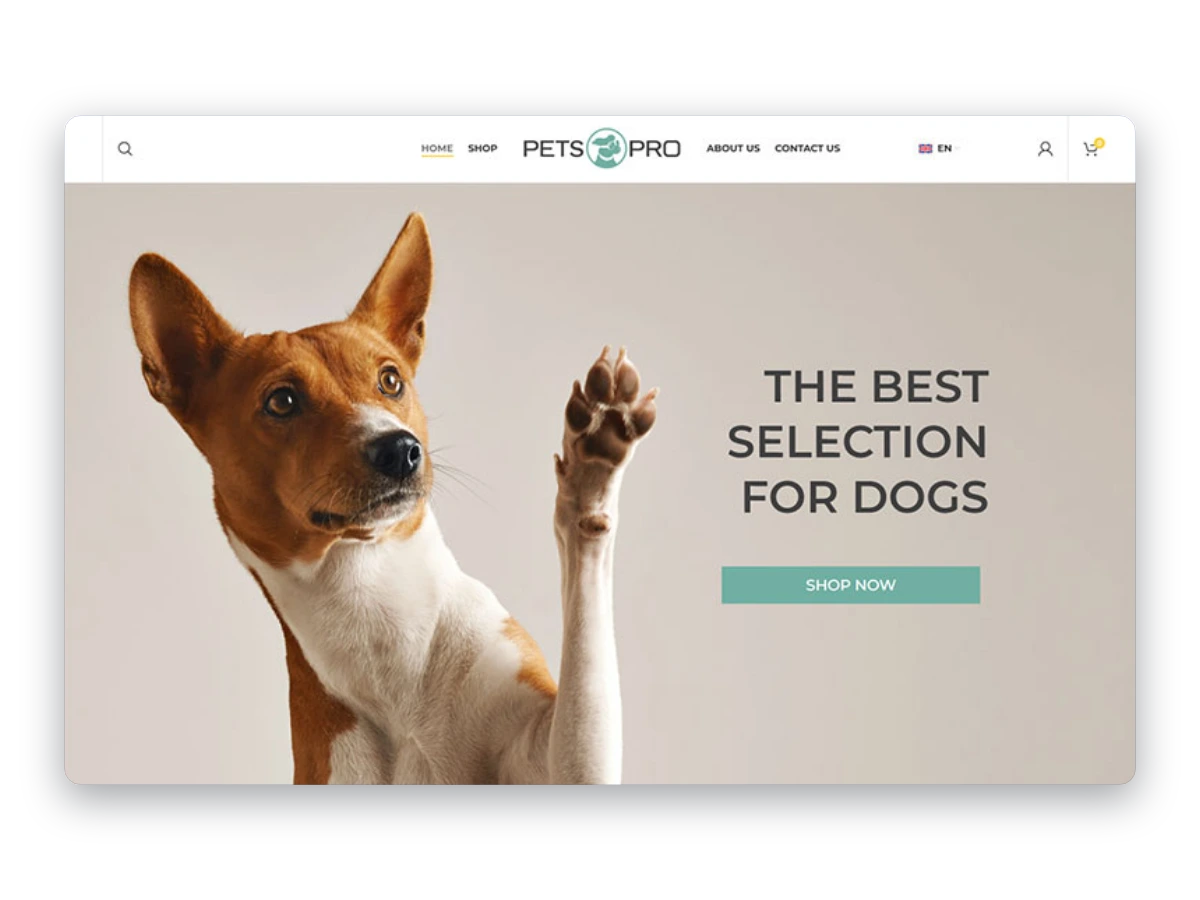
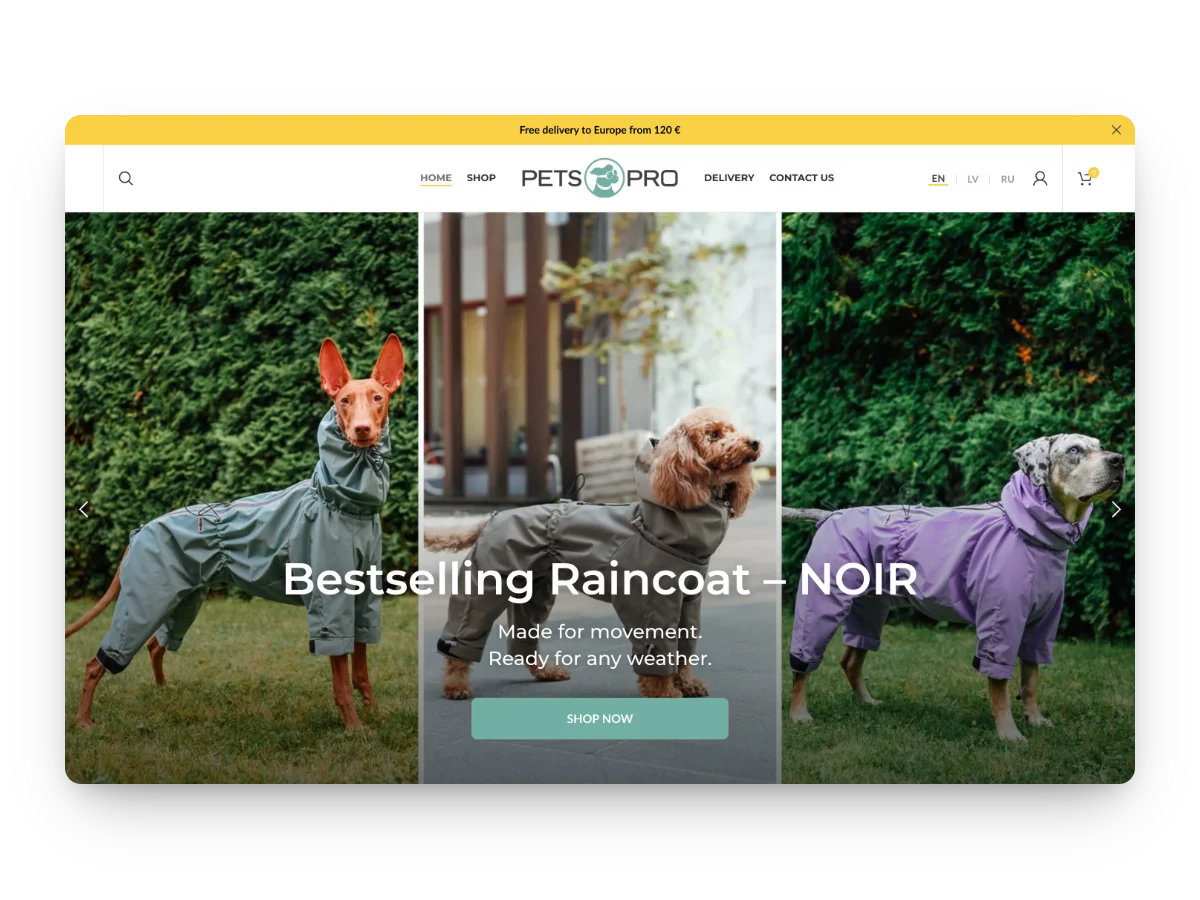
feat(portfolio): refresh Pets Pro, drop Aerial Platform and Gift Roulette
Pets Pro gets a new cover, three current screenshots and copy in both
languages for what the shop has become (370+ products in EN/LV/RU, size-range
links, rule-based upsells, moderated reviews, parcel-locker labels from the
order); it is tagged as maintenance work and shown on the Latvian maintenance
page. Aerial Platform and Gift Roulette are removed; their old URLs redirect
to the portfolio.

diff --git a/src/data/projects.lv.ts b/src/data/projects.lv.ts
@@ -309,18 +309,22 @@ export const projectsLv: Record<string, ProjectCopy> = {
     result: "Vizuāli saistošs katalogs, kas izceļ preces, nenovēršot uzmanību no satura.",
   },
   "pets-pro": {
-    seoTitle: "Pets Pro - daudzvalodu dzīvnieku preču veikals",
-    description: "Mājdzīvnieku preču veikals ar daudzvalodu katalogu - apģērbs, guļvietas, rotaļlietas un kopšanas līdzekļi, ar izceltām kategorijām un vēlmju sarakstu veikala lapā.",
-    challenge: "Mājdzīvnieku preču tirgotājam, kas pārdod visā Baltijā, vajadzēja veikalu, kas strādā kā pircējiem ierastās lielās tirdzniecības platformas: ātra pārlūkošana pa kategorijām, izlase, lojalitātes punkti un skaidri piegādes noteikumi. Turklāt bez lielas platformas budžeta un ar nelielu komandu, kas veikalu uztur vairākās valodās.",
+    seoTitle: "Pets Pro - daudzvalodu WooCommerce zooveikals",
+    description: "Rīgas zooveikals suņiem un kaķiem, kas pārdod visā Eiropā angļu, latviešu un krievu valodā - 370+ preces, izmēru tabulas un saites uz citiem izmēriem, papildpreču ieteikumi, moderētas atsauksmes ar suņa šķirni un izmēru un pakomātu uzlīmes, kas tiek izdrukātas tieši no pasūtījuma.",
+    metaDescription: "Pets Pro: WooCommerce zooveikals LV, EN un RU - 370+ preces, izmēru tabulas, papildpreču ieteikumi, moderētas atsauksmes, pakomātu uzlīmes no pasūtījuma.",
+    challenge: "Pets Pro sākās kā kārtīgs WooCommerce veikals. Kad katalogs pārsniedza 370 preces - lietusmēteļi un apģērbs daudzos izmēros, guļvietas, krūšu siksnas, kopšanas un higiēnas preces -, veikalam vajadzēja pārdot trīs valodās visā Eiropā, palīdzēt saimniekiem izvēlēties pareizo izmēru bez rakstīšanas veikalam, palielināt vidējo pirkumu un ļaut nelielai komandai katru dienu sapakot un izsūtīt sūtījumus. Turklāt uz esošās WordPress bāzes un nepadarot vietni lēnāku.",
     solution: [
-      "Veikala sākumlapa veidota ap izceltajām kategorijām (apģērbs un apavi, guļvietas, suņu rotaļlietas, kopšanas līdzekļi) un sezonālo kampaņu baneriem",
-      "Vēlmju saraksts un lojalitātes programma: pircēji reģistrējas, ar katru pirkumu krāj punktus un izmanto tos nākamajā reizē",
-      "Bezmaksas piegādes sliekšņi katrai valstij redzami katrā lapā, lai pircēji no citām valstīm noteikumus zinātu jau iepriekš",
-      "Akciju josla un kampaņu bloki (piemēram, «−20% barībai»), ko komanda maina, neaiztiekot izkārtojumu",
-      "Daudzvalodu WooCommerce katalogs ar lapām, kas rediģējamas Elementor",
-      "Mailchimp jaunumu vēstules pierakstīšanās forma un saites uz Instagram, TikTok un Facebook",
+      "Viss veikals angļu, latviešu un krievu valodā - preču nosaukumi, apraksti, kategorijas, atribūti, e-pasti un formas - ar SitesPro Translate, mūsu pašu daudzvalodu spraudni, kas aizstāja TranslatePress",
+      "Preču apraksti pārrakstīti pēc vienota šablona (ievads, īpašības, lietošana, specifikācija), un izmēru tabulas no attēliem pārvērstas tulkotos uznirstošajos logos",
+      "Saites «Meklējat citu izmēru?» starp viena modeļa izmēru grupām, kas tiek veidotas automātiski no preču nosaukumiem un atlikumiem",
+      "Papildpreču ieteikumi zem pogas «Pievienot grozam» un grozā katrai precei pēc noteikumiem - pavada un krūšu siksna blakus lietusmētelim, rezerves maisiņi blakus turētājam",
+      "Apakškategoriju pogas virs preču saraksta, filtri, kas saglabājas, pārslēdzot valodu, un krāsu filtrs tikai tur, kur krāsas ir",
+      "Atsauksmes tikai reģistrētiem pircējiem, ar obligātu moderāciju un ar suņa vārdu, šķirni un nopirkto izmēru blakus katrai atsauksmei",
+      "Piegāde uz Omniva, Expresspasts un Smartposti pakomātiem ar uzlīmēm, kas tiek izdrukātas no pasūtījuma, un loma «uzlīmju printeris», ar kuru pakotāji drukā uzlīmes, bet nevar mainīt pasūtījumus",
+      "Bezmaksas piegādes slieksnis redzams pie katras preces, un kupona uznirstošais logs pievieno abonentus Brevo ar viņu valodu, lai kampaņas aizietu pareizajā valodā",
+      "Ātruma uzlabojumi: lapu kešatmiņa bez izsekošanas sīkdatnēm, pašu mitināti fonti, vieglāks sākumlapas slaideris un Meta Conversions API tikai pirkumiem - šī izmaiņa vien katrai nekešotai lapai ietaupa 0,1-0,65 s",
     ],
-    result: "Visas Baltijas mājdzīvnieku preču veikals, ko klients pārvalda pats: kampaņas, cenas un piegādes noteikumi tiek mainīti administrēšanas panelī, bet pircēji saņem izlasi, punktus un skaidrus piegādes noteikumus, ko viņi sagaida no daudz lielākiem veikaliem.",
+    result: "Veikals, kas izaudzis par strādājošu tirdzniecības sistēmu: saimnieki paši atrod savu izmēru un piemērotus aksesuārus, katra lapa dabiski skan trijās valodās, atsauksmēs ir reāls konteksts, un komanda dienas sūtījumu uzlīmes drukā tieši no pasūtījumiem. Mēs turpinām veikalu attīstīt un uzturēt, biznesam augot.",
   },
   "on-air-emotions": {
     seoTitle: "On Air Emotions - pasākumu aģentūras mājaslapa",
@@ -402,20 +406,6 @@ export const projectsLv: Record<string, ProjectCopy> = {
     ],
     result: "Kalkulators, kam braucēji uzticas, jo tas parāda savu aprēķinu gaitu: pabīdi vienu slīdni - un nobraukums un brauciena laiks atjaunojas uzreiz, bet pieņēmumi ir izrakstīti, nevis paslēpti. Turklāt tas atrodas EUC.ONE lietotnē, kur arī tiek pieņemts lēmums.",
   },
-  "gift-roulette": {
-    seoTitle: "Gift Roulette - Slepenā Santa lietotne",
-    description: "Slepenā Santa organizētājs - izveidojiet pasākumu, pārvaldiet dalībniekus, automātiski izlozējiet vārdus un nosūtiet administratora saites pa e-pastu. Nekas nav jāinstalē, un dalībai konts nav vajadzīgs.",
-    metaDescription: "Slepenā Santa organizētājs: izveidojiet pasākumu, pievienojiet dalībniekus un automātiski izlozējiet vārdus - bez instalēšanas un bez konta dalībniekiem.",
-    challenge: "Vienkāršot Slepenā Santa pasākumu organizēšanu ar intuitīvu platformu, kurā bez liekas sarežģītības var izveidot pasākumu, pārvaldīt dalībniekus un saskaņot dāvanu apmaiņu.",
-    solution: [
-      "Vienkārša pasākuma izveide ar nosaukumu, aprakstu un datumu",
-      "Ērta dalībnieku pārvaldība ar minimālām prasībām",
-      "Administratora saišu nosūtīšana pa e-pastu - pēc izvēles",
-      "Vienkāršota saskarne ātrai pasākuma sagatavošanai",
-      "Pārskatāma pasākuma informācija un dalībnieku uzskaite",
-    ],
-    result: "Ērta lietotne, kas Slepenā Santa pasākuma organizēšanu padara pavisam vienkāršu, lai dalībnieki varētu domāt par dāvanu apmaiņas prieku, nevis loģistiku.",
-  },
   ekobaltika: {
     seoTitle: "EkoBaltika - pakalpojumi un instrumentu e-veikals",
     description: "Metāla virsmu lāzertīrīšana un koka un polimēru CNC frēzēšana, kā arī instrumentu e-veikals - pakalpojumi un preces vienā vietnē klientiem visā Latvijā.",
@@ -490,21 +480,6 @@ export const projectsLv: Record<string, ProjectCopy> = {
       "Uzņēmuma paša skaitļi kā pierādījums - 5000+ projektu un 45 000+ uzstādītu logu",
     ],
     result: "Profesionāla pakalpojumu vietne, kas pārliecinoši parāda kompetenci un uzticamību, piesaista kvalificētus potenciālos klientus ar bezmaksas cenas piedāvājuma pieprasījumiem un vairo pārliecību par uzstādīšanas procesu.",
-  },
-  "aerial-platform": {
-    seoTitle: "Aerial Platform - dronu pakalpojumu platforma",
-    description: "Vadošā tirdzniecības platforma, kas savieno profesionālus dronu operatorus ar klientiem, kuriem vajadzīga izcila aerofotografēšana un aerovideofilmēšana.",
-    challenge: "Izveidot visaptverošu tirdzniecības platformu, kas ērti savieno dronu operatorus ar klientiem, atvieglo rezervācijas, maksājumus un pakalpojumu sniegšanu un nodrošina kvalitāti un uzticību abām darījuma pusēm.",
-    solution: [
-      "Profesionāli operatoru profili ar portfolio un vērtējumiem",
-      "Klientiem ērta rezervēšanas sistēma ar pakalpojumu filtrēšanu",
-      "Droša maksājumu apstrāde un darījumu pārvaldība",
-      "Pakalpojumu kategorijas dažādām aerofotografēšanas vajadzībām",
-      "Atsauksmju un vērtējumu sistēma kvalitātes nodrošināšanai",
-      "Pieejamība un grafiks reāllaikā",
-      "Mobilajām ierīcēm pielāgots dizains rezervācijām ceļā",
-    ],
-    result: "Moderna tirdzniecības platforma, kas vienkāršo saikni starp profesionāliem dronu operatoriem un klientiem un padara izcilus aerofotografēšanas un aerovideofilmēšanas pakalpojumus viegli pieejamus. (Joprojām izstrādes stadijā.)",
   },
   "senso-projects": {
     seoTitle: "Senso Projects - interjera dizaina vietne",

diff --git a/src/data/projects.ts b/src/data/projects.ts
@@ -820,35 +820,44 @@ export const projects: Project[] = [
   {
     slug: 'pets-pro',
     title: 'Pets Pro',
-    seoTitle: 'Pets Pro — Multilingual Pet Supplies Store',
+    seoTitle: 'Pets Pro — Multilingual WooCommerce Pet Store',
+    updated: '2026-10-23',
     category: 'Commerce',
-    tech: ['WordPress', 'WooCommerce', 'Multilingual', 'Mailchimp'],
-    services: ['web', 'ecommerce', 'multilingual'],
-    description: 'Pet supplies store with a multilingual catalogue — clothing, beds, toys and care products, with featured categories and a favourites list on the storefront.',
+    tech: ['WordPress', 'WooCommerce', 'WoodMart', 'Multilingual (EN/LV/RU)', 'Brevo', 'Meta Conversions API', 'Cloudflare'],
+    services: ['web', 'ecommerce', 'multilingual', 'maintenance'],
+    description: 'Riga pet store for dogs and cats, selling across Europe in English, Latvian and Russian — 370+ products, size guides and size-range links, rule-based upsells, moderated reviews with the dog’s breed and size, and parcel-locker labels printed straight from the order.',
+    metaDescription: 'Pets Pro: WooCommerce pet store in EN, LV and RU — 370+ products, size guides, rule-based upsells, moderated reviews, parcel-locker labels from the order.',
     challenge: `
-      A pet-supplies retailer selling across the Baltics needed a store that
-      works like the big marketplaces shoppers are used to — fast browsing by
-      category, favourites, loyalty points, clear delivery terms — without a
-      marketplace budget, and with a small team running it in several languages.
+      Pets Pro started as a tidy WooCommerce storefront. As the catalogue grew
+      past 370 products — raincoats and clothing in many sizes, beds, harnesses,
+      care and hygiene — the shop had to sell in three languages across Europe,
+      help owners choose the right size without writing in, raise the average
+      order, and let a small team pack and ship parcels every day. All of it on
+      the existing WordPress stack, without making the site slower.
     `,
     solution: [
-      'Storefront built around featured categories (clothing and shoes, beds, dog toys, care products) and seasonal campaign banners',
-      'Wishlist and a loyalty scheme: shoppers register, earn points with every purchase and spend them next time',
-      'Country-specific free-delivery thresholds shown on every page, so cross-border buyers know the rules up front',
-      'Promotional bar and campaign blocks (a −20% food line, for example) the team changes without touching the layout',
-      'Multilingual WooCommerce catalogue with Elementor-editable pages',
-      'Mailchimp newsletter capture and links to Instagram, TikTok and Facebook',
+      'The whole shop in English, Latvian and Russian — product names, descriptions, categories, attributes, e-mails and forms — on SitesPro Translate, our own multilingual plugin, replacing TranslatePress',
+      'Product texts rewritten to one template (intro, features, how to use, specifications) and size guides transcribed from pictures into translated pop-ups',
+      '"Looking for another size?" links between the size ranges of a model, built automatically from product names and stock',
+      'Rule-based upsells under Add to cart and cross-sells in the cart for every product — a leash and harness next to a raincoat, refills next to a holder',
+      'Subcategory chips above the product grid, filters that survive a language switch and a colour filter only where colours exist',
+      'Reviews for registered customers only, held for moderation, with the dog’s name, breed and the size bought shown next to each review',
+      'Omniva, Expresspasts and Smartposti parcel-locker shipping with labels printed from the order, and a "label printer" role that lets packing staff print labels without being able to change orders',
+      'Free-shipping thresholds shown on every product, and a coupon pop-up that adds subscribers to Brevo with their language, so campaigns go out in the right one',
+      'Speed work: page cache kept free of tracking cookies, self-hosted fonts, a lighter home slider, and the Meta Conversions API limited to purchases — that change alone takes 0.1–0.65 s off every uncached page',
     ],
     result: `
-      A Baltic-wide pet store the client operates alone: campaigns, prices and
-      delivery rules change in the back office, while shoppers get the
-      favourites, points and delivery clarity they expect from much bigger
-      stores.
+      A storefront that grew into a working retail system: owners find their
+      size and the matching accessories on their own, every page reads naturally
+      in three languages, reviews come with real context, and the team prints the
+      day's parcel labels straight from the orders. We keep developing and
+      maintaining the shop as the business grows.
     `,
-    image: '/projects/covers/pets-pro.webp?v=4',
+    image: '/projects/covers/pets-pro.webp?v=5',
     images: [
-      '/projects/screenshots/pets-pro.jpg',
-      '/projects/screenshots/pets-pro-2.jpg',
+      '/projects/screenshots/pets-pro.jpg?v=5',
+      '/projects/screenshots/pets-pro-2.jpg?v=5',
+      '/projects/screenshots/pets-pro-3.jpg?v=5',
     ],
     logo: '/projects/logos/pets-pro.png',
     link: 'https://pets-pro.eu/',
@@ -1068,36 +1077,6 @@ export const projects: Project[] = [
   },
 
   {
-    slug: 'gift-roulette',
-    title: 'Gift Roulette',
-    seoTitle: 'Gift Roulette — Secret Santa Organiser App',
-    category: 'Apps',
-    services: ['web-platforms'],
-    description: 'Secret Santa organiser — create an event, manage participants, draw names automatically and share admin links by email, with nothing to install and no account to join.',
-    metaDescription: 'Secret Santa organiser: create an event, add participants and draw names automatically — nothing to install and no account needed to join.',
-    challenge: `
-      Simplify the organization of Secret Santa events by providing an intuitive
-      platform for creating events, managing participants, and coordinating gift
-      exchanges without complexity.
-    `,
-    solution: [
-      'Simple event creation with name, description, and date',
-      'Easy participant management with minimum requirements',
-      'Optional email notifications for admin links',
-      'Streamlined interface for quick event setup',
-      'Clear event details and participant tracking',
-    ],
-    result: `
-      A user-friendly app that makes organizing Secret Santa events effortless,
-      allowing users to focus on the fun of gift exchanges rather than logistics.
-    `,
-    image: '/projects/covers/gift-roulette.webp?v=4',
-    images: [
-      '/projects/screenshots/gift-roulette.jpg',
-    ],
-  },
-
-  {
     slug: 'ekobaltika',
     title: 'EkoBaltika',
     seoTitle: 'EkoBaltika — Services and Tools Web Shop',
@@ -1300,39 +1279,6 @@ export const projects: Project[] = [
       '/projects/screenshots/window-pros-3.jpg',
     ],
     link: 'https://bayareawindowpros.com/',
-  },
-
-  {
-    slug: 'aerial-platform',
-    title: 'Aerial Platform',
-    seoTitle: 'Aerial Platform — Drone Services Marketplace',
-    category: ['Apps', 'Commerce'] ,
-    services: ['web-platforms'],
-    description: 'The premier marketplace connecting professional drone operators with clients who need exceptional aerial photography and videography services.',
-    challenge: `
-      Create a comprehensive marketplace platform that seamlessly connects drone
-      operators with clients, facilitating bookings, payments, and service delivery
-      while ensuring quality and trust on both sides of the transaction.
-    `,
-    solution: [
-      'Professional operator profiles with portfolios and ratings',
-      'Client-friendly booking system with service filtering',
-      'Secure payment processing and transaction management',
-      'Service categorization for different aerial photography needs',
-      'Review and rating system for quality assurance',
-      'Real-time availability and scheduling',
-      'Mobile-responsive design for on-the-go bookings',
-    ],
-    result: `
-      A modern marketplace platform that streamlines the connection between
-      professional drone operators and clients, making exceptional aerial
-      photography and videography services easily accessible. (Still in development.)
-    `,
-    image: '/projects/covers/aerial-platform.webp?v=4',
-    images: [
-      '/projects/screenshots/aerial.jpg',
-    ],
-
   },
 
   {

diff --git a/src/content/services-lv.ts b/src/content/services-lv.ts
@@ -637,6 +637,7 @@ export const LV_SERVICE_PAGES: Record<string, LvServicePage> = {
           a: "Jā. Kods, dati un visas piekļuves paliek jūsu īpašumā. Uzturēšanas līgums nepadara jūs atkarīgus no mums.",
         },
       ],
+      cases: { services: ['maintenance'], title: 'Vietnes, kuras uzturam un attīstām' },
       contactTitle: "Pastāstiet par savu mājas lapu",
       contactText: "Sāksim ar bezmaksas tehnisko auditu - parādīsim, kādā stāvoklī ir vietne un ko vajadzētu sakārtot. Atbildam vienas darba dienas laikā.",
     },

diff --git a/next.config.ts b/next.config.ts
@@ -63,6 +63,9 @@ const nextConfig: NextConfig = {
         destination: 'https://sitespro.lv/:path*',
         permanent: true,
       },
+      // Removed from the portfolio 2026-10-23 — old links land on the portfolio.
+      { source: '/portfolio/aerial-platform', destination: '/portfolio', permanent: true },
+      { source: '/portfolio/gift-roulette', destination: '/portfolio', permanent: true },
       // The Annexe case became the Institut de Français — Villefranche case.
       {
         source: '/portfolio/annexe-de-francais',
